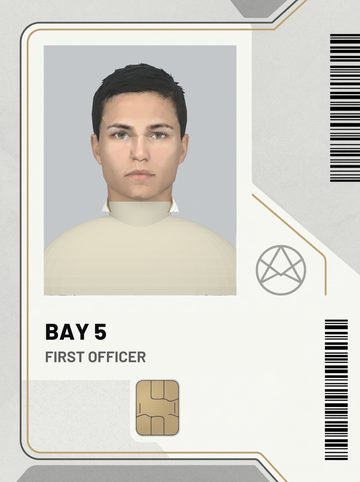
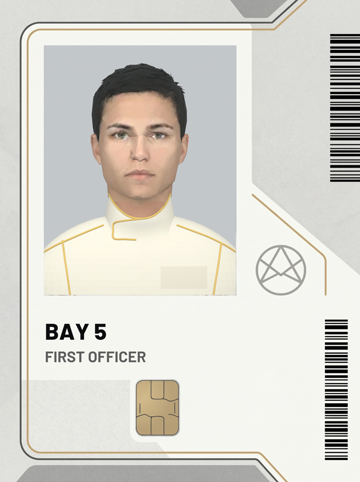
Level 1: Vale's bay plate shows the same piped uniform as the other crew (outpost-ops#283)

Changed region(s): [[0.1222, 0.4046, 0.6722, 0.6224]]

diff --git a/packages/client/src/cinematics.ts b/packages/client/src/cinematics.ts
@@ -34,7 +34,7 @@ export const CINEMATICS: Record<VideoId, FilmInfo> = {
 };
 
 /** Bump a film's version when it is re-rendered: players who saw an older one see it again. */
-export const FILM_VERSIONS: Record<CinematicId, number> = { crash_open: 8, helmet_reveal: 3, empty_bays: 3, crash_log: 2, sela_arrival: 1, chip_handoff: 1, warlord_fall: 4 };
+export const FILM_VERSIONS: Record<CinematicId, number> = { crash_open: 8, helmet_reveal: 3, empty_bays: 4, crash_log: 2, sela_arrival: 1, chip_handoff: 1, warlord_fall: 4 };
 
 /**
  * While the story films and live scenes are being edited (Doug, 2026-11-04), every one plays on every

diff --git a/tools/cinematics/vale_portrait.py b/tools/cinematics/vale_portrait.py
@@ -22,14 +22,130 @@ ctr, size = (lo + hi) / 2, hi - lo
 print("BOUNDS", tuple(lo), tuple(hi))
 h = size.z
 
-# plain cream suit under the head (collar + shoulders), like the other crew portraits; the face is the model's alone
-cream = bpy.data.materials.new("cream"); cream.use_nodes = True
-cream.node_tree.nodes["Principled BSDF"].inputs["Base Color"].default_value = (0.5, 0.46, 0.36, 1)
-cream.node_tree.nodes["Principled BSDF"].inputs["Roughness"].default_value = 0.9
-bpy.ops.mesh.primitive_uv_sphere_add(radius=1, location=(ctr.x, ctr.y, -0.14), segments=48, ring_count=24)
-sh = bpy.context.object; sh.scale = (0.21, 0.09, 0.14); sh.data.materials.append(cream)
-bpy.ops.mesh.primitive_cylinder_add(radius=0.058, depth=0.07, location=(ctr.x, ctr.y + 0.005, -0.015), vertices=48)
-co = bpy.context.object; co.data.materials.append(cream)
+# Crew uniform under the head, matching the other bay portraits (portrait_imani/sorrel/brandt.jpg): cream suit, stand collar whose
+# rim dips at the front, a flap across the left of the collar, gold piping on the collar rim and flap, along each shoulder yoke
+# and down each side of the chest, a plain chest pocket on the wearer's left (viewer's right). No other collar piping.
+def mat(name, col, rough):
+    m = bpy.data.materials.new(name); m.use_nodes = True
+    m.node_tree.nodes["Principled BSDF"].inputs["Base Color"].default_value = col
+    m.node_tree.nodes["Principled BSDF"].inputs["Roughness"].default_value = rough
+    return m
+cream = mat("cream", (0.66, 0.62, 0.52, 1), 0.9)
+cream2 = mat("cream2", (0.60, 0.56, 0.46, 1), 0.9)
+gold = mat("gold", (0.60, 0.40, 0.10, 1), 0.55)
+PX = o_px = None
+SY, SZ, SX = 0.075, 0.14, 0.21          # torso ellipsoid: y depth, z half-height, x half-width
+SC_Z = -0.14
+bpy.ops.mesh.primitive_uv_sphere_add(radius=1, location=(ctr.x, ctr.y, SC_Z), segments=64, ring_count=32)
+sh = bpy.context.object; sh.scale = (SX, SY, SZ); sh.data.materials.append(cream)
+R_TOP, R_BOT, Z_TOP, Z_BOT = 0.0575, 0.075, 0.0356, -0.06
+
+def camz_top(o): return hi.z + 0.07 * o
+ORTHO = h * 1.67
+PXM = ORTHO / 2000.0
+TOP = camz_top(ORTHO)
+def ref(px, py):                         # reference portrait px (796x1036) -> world x,z ; chin at ref y625 = our y1245, x400 = centre
+    ox, oy = 805.5 + (px - 400) * 2.0, 1245 + (py - 625) * 2.0
+    return ctr.x + (ox - 805.5) * PXM, TOP - oy * PXM
+def on_torso(x, z):
+    dx, dz = (x - ctr.x) / SX, (z - SC_Z) / SZ
+    t = max(0.0, 1 - dx * dx - dz * dz)
+    return ctr.y - SY * math.sqrt(t) - 0.0012
+RIM_REF = [(275, 595), (300, 640), (345, 682), (400, 697), (455, 685), (500, 645), (522, 598)]
+def rim_z(x):                            # height of the collar's top edge at world x: high at the sides, dipping at the front
+    pts = [ref(*p) for p in RIM_REF]
+    if x <= pts[0][0]: return pts[0][1]
+    for (xa, za), (xb, zb) in zip(pts, pts[1:]):
+        if xa <= x <= xb:
+            t = (x - xa) / (xb - xa); t = t * t * (3 - 2 * t)
+            return za + (zb - za) * t
+    return pts[-1][1]
+def collar_fwd(x, z):                    # how far in front of the centre the collar surface sits; flares into the torso at its foot
+    r = R_BOT + (R_TOP - R_BOT) * (z - Z_BOT) / (Z_TOP - Z_BOT)
+    fc = math.sqrt(max(r * r - (x - ctr.x) ** 2, 0))
+    ft = ctr.y - on_torso(x, z) + 0.0002
+    t = max(0.0, min(1.0, (z - Z_BOT) / 0.05)); t = t * t * (3 - 2 * t)
+    return ft + (fc - ft) * t
+def on_collar(x, z):
+    return ctr.y - collar_fwd(x, z) - 0.0012
+def build_collar():                      # ring stack whose top edge follows rim_z, so the front dips under the chin
+    NA, NR = 96, 12
+    vs, fs = [], []
+    for j in range(NR + 1):
+        for i in range(NA):
+            ph = 2 * math.pi * i / NA
+            x = ctr.x + (R_BOT + (R_TOP - R_BOT) * j / NR) * math.sin(ph)
+            front = math.cos(ph) > 0
+            z = Z_BOT + ((rim_z(x) if front else Z_TOP) - Z_BOT) * j / NR
+            if front: y = ctr.y - collar_fwd(x, z)
+            else:
+                r = R_BOT + (R_TOP - R_BOT) * (z - Z_BOT) / (Z_TOP - Z_BOT)
+                y = ctr.y + math.sqrt(max(r * r - (x - ctr.x) ** 2, 0))
+            vs.append((x, y, z))
+    for j in range(NR):
+        for i in range(NA):
+            a_, b_ = j * NA + i, j * NA + (i + 1) % NA
+            fs.append((a_, b_, b_ + NA, a_ + NA))
+    me = bpy.data.meshes.new("collar"); me.from_pydata(vs, [], fs); me.update()
+    ob = bpy.data.objects.new("collar", me); sc.collection.objects.link(ob); me.materials.append(cream)
+    for pl in me.polygons: pl.use_smooth = True
+build_collar()
+skin = mat("neck", (0.42, 0.22, 0.14, 1), 0.8)   # the head model ends at the chin line; carry the neck down into the collar
+bpy.ops.mesh.primitive_cylinder_add(radius=0.05, depth=0.12, location=(ctr.x, ctr.y + 0.004, -0.04), vertices=48)
+nk = bpy.context.object; nk.scale = (1, 0.85, 1); nk.data.materials.append(skin)
+def catmull(pts, n=14):
+    out = []
+    P = [pts[0]] + pts + [pts[-1]]
+    for i in range(1, len(P) - 2):
+        p0, p1, p2, p3 = P[i - 1], P[i], P[i + 1], P[i + 2]
+        for k in range(n):
+            t = k / n
+            out.append(tuple(0.5 * ((2 * p1[j]) + (-p0[j] + p2[j]) * t + (2 * p0[j] - 5 * p1[j] + 4 * p2[j] - p3[j]) * t * t + (-p0[j] + 3 * p1[j] - 3 * p2[j] + p3[j]) * t ** 3) for j in range(2)))
+    out.append(pts[-1])
+    return out
+def pipe(name, refpts, surf, smooth=True, r=0.0019):
+    pts = [ref(*p) for p in refpts]
+    if smooth: pts = catmull(pts)
+    cu = bpy.data.curves.new(name, "CURVE"); cu.dimensions = "3D"
+    cu.bevel_depth = r; cu.bevel_resolution = 3
+    sp = cu.splines.new("POLY"); sp.points.add(len(pts) - 1)
+    for pt, (x, z) in zip(sp.points, pts):
+        pt.co = (x, surf(x, z), z, 1)
+    ob = bpy.data.objects.new(name, cu); sc.collection.objects.link(ob); ob.data.materials.append(gold)
+    return ob
+
+# collar rim (sides high, dipping at the front) and the flap's piped top and left edge
+pipe("rim", [(275, 595), (300, 640), (345, 682), (400, 697), (455, 685), (500, 645), (522, 598)], on_collar)
+pipe("flap", [(399, 698), (330, 706), (296, 716), (293, 745), (296, 776), (340, 779), (386, 781)], on_collar)
+# shoulder yokes and the side seams down the chest
+pipe("yoke_l", [(255, 722), (190, 748), (125, 776), (60, 805), (8, 835)], on_torso)
+pipe("yoke_r", [(548, 722), (610, 745), (680, 772), (745, 805), (796, 838)], on_torso)
+pipe("seam_l", [(90, 785), (100, 860), (112, 940), (124, 1030)], on_torso)
+pipe("seam_r", [(726, 795), (716, 870), (703, 950), (690, 1035)], on_torso)
+def patch(name, m, p0, p1, nx=14, nz=14, off=0.0008):
+    (x0, z0), (x1, z1) = ref(*p0), ref(*p1)
+    vs, fs = [], []
+    for j in range(nz + 1):
+        for i in range(nx + 1):
+            x, z = x0 + (x1 - x0) * i / nx, z0 + (z1 - z0) * j / nz
+            vs.append((x, on_torso(x, z) - off + 0.0012, z))
+    for j in range(nz):
+        for i in range(nx):
+            a_ = j * (nx + 1) + i
+            fs.append((a_, a_ + 1, a_ + nx + 2, a_ + nx + 1))
+    me = bpy.data.meshes.new(name); me.from_pydata(vs, [], fs); me.update()
+    ob = bpy.data.objects.new(name, me); sc.collection.objects.link(ob); me.materials.append(m)
+    for pl in me.polygons: pl.use_smooth = True
+patch("pocket", cream2, (483, 888), (670, 978))   # plain chest pocket on the viewer's right
+
+# the head model carries a flared white shirt collar that the uniform's stand collar now covers: drop it for the plate
+import bmesh
+for ob in objs:
+    bm = bmesh.new(); bm.from_mesh(ob.data)
+    kill = [f for f in bm.faces if all((ob.matrix_world @ v.co).z < 0.045 and abs((ob.matrix_world @ v.co).x - ctr.x) > 0.05 for v in f.verts)]
+    print("DROPPED_FACES", len(kill))
+    bmesh.ops.delete(bm, geom=kill, context="FACES")
+    bm.to_mesh(ob.data); bm.free()
 
 # the glTF importer is Y-up converted to Z-up, so the head's front is usually -Y; camera looks from -Y at +Y
 w = bpy.data.worlds.new("w"); sc.world = w
